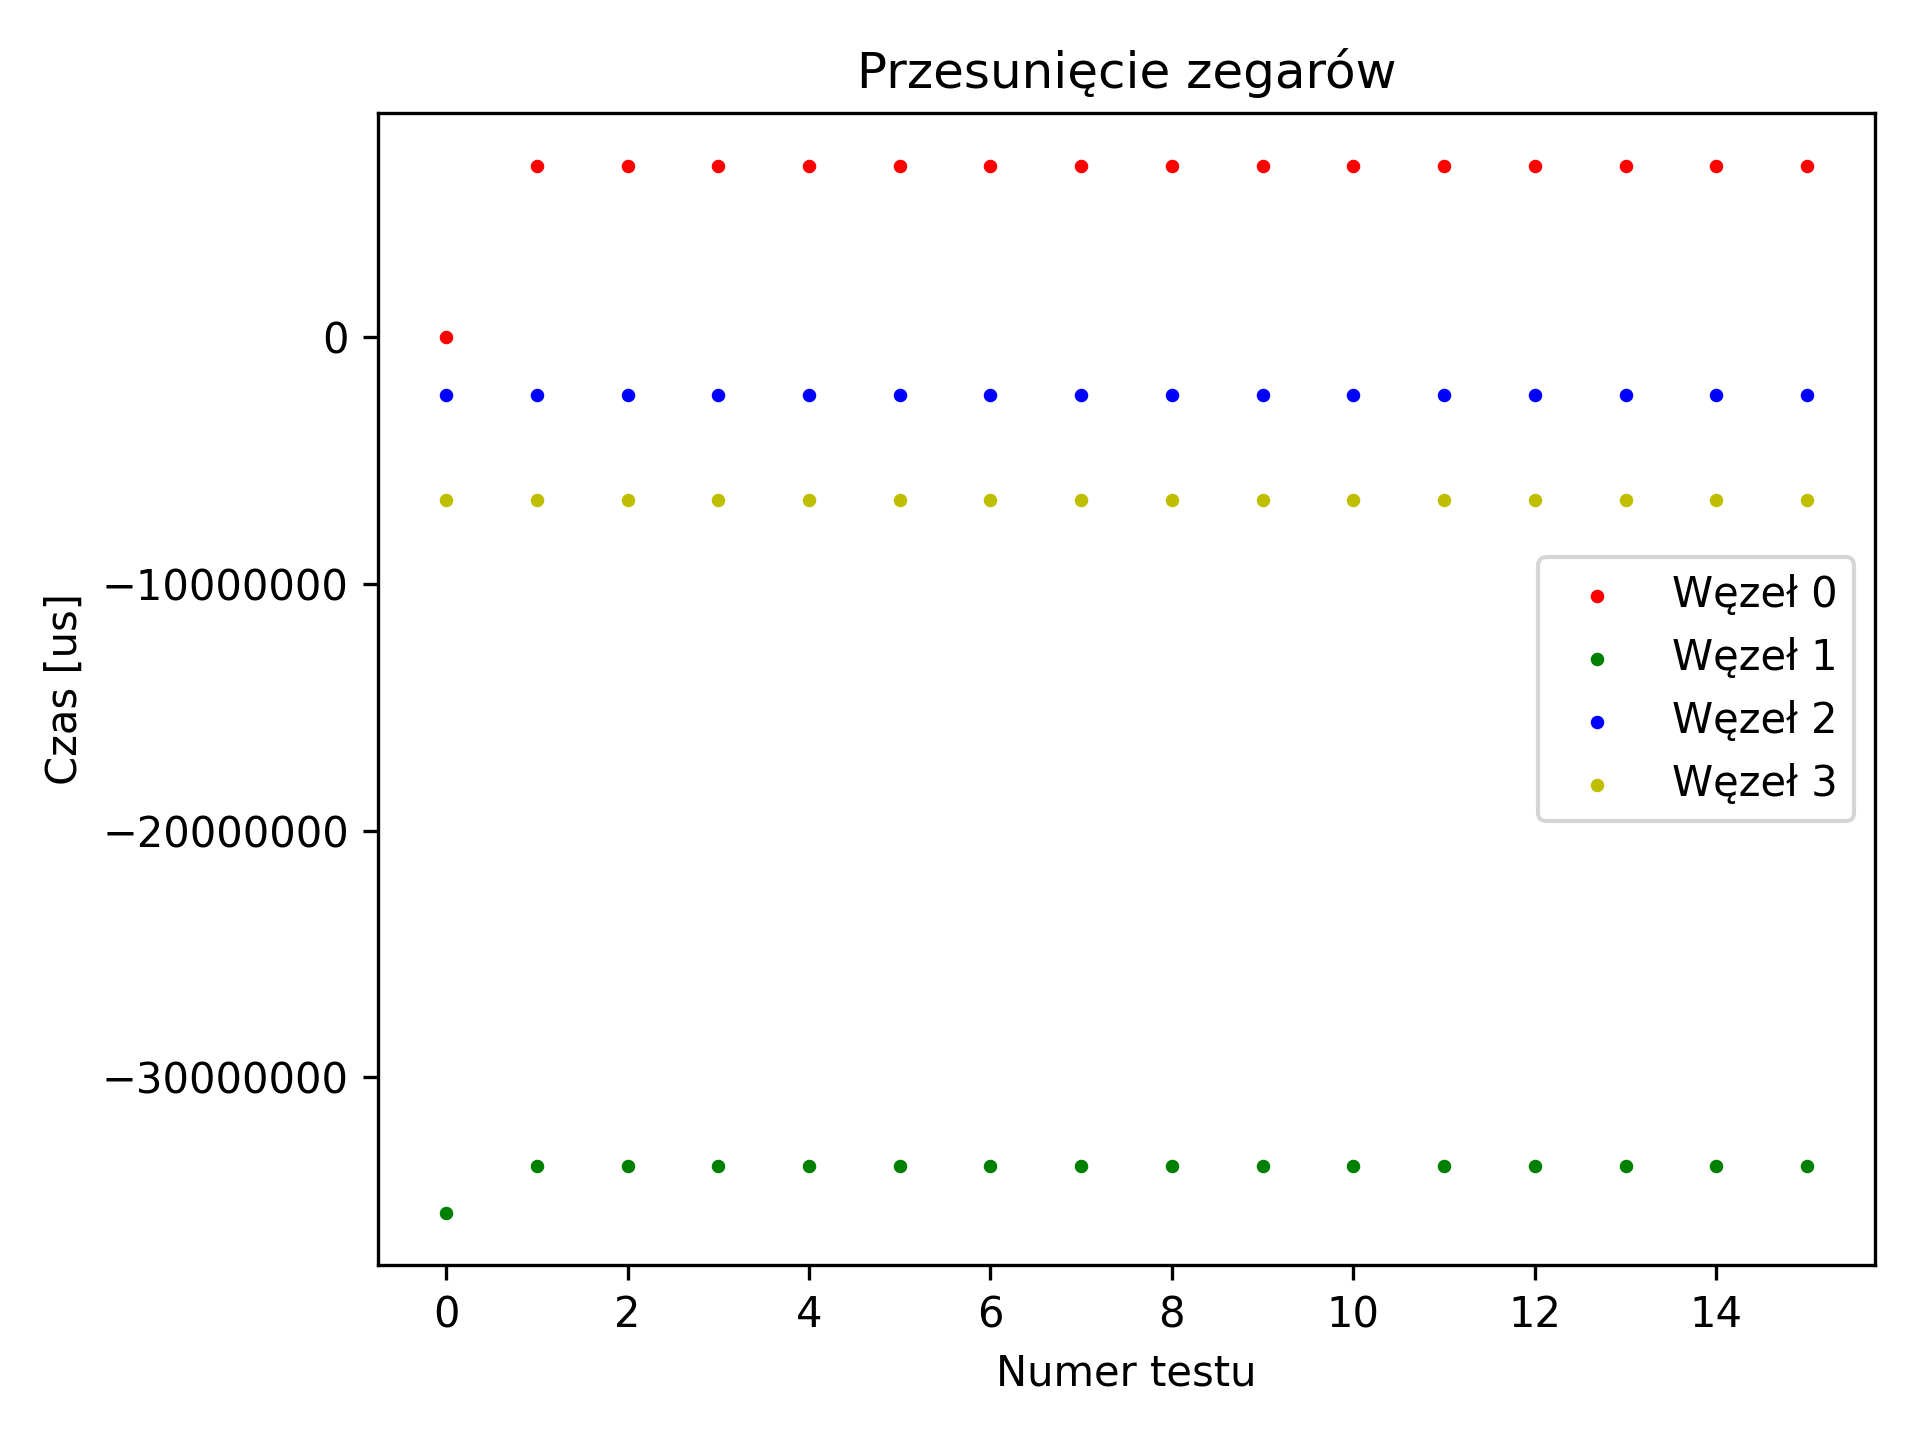
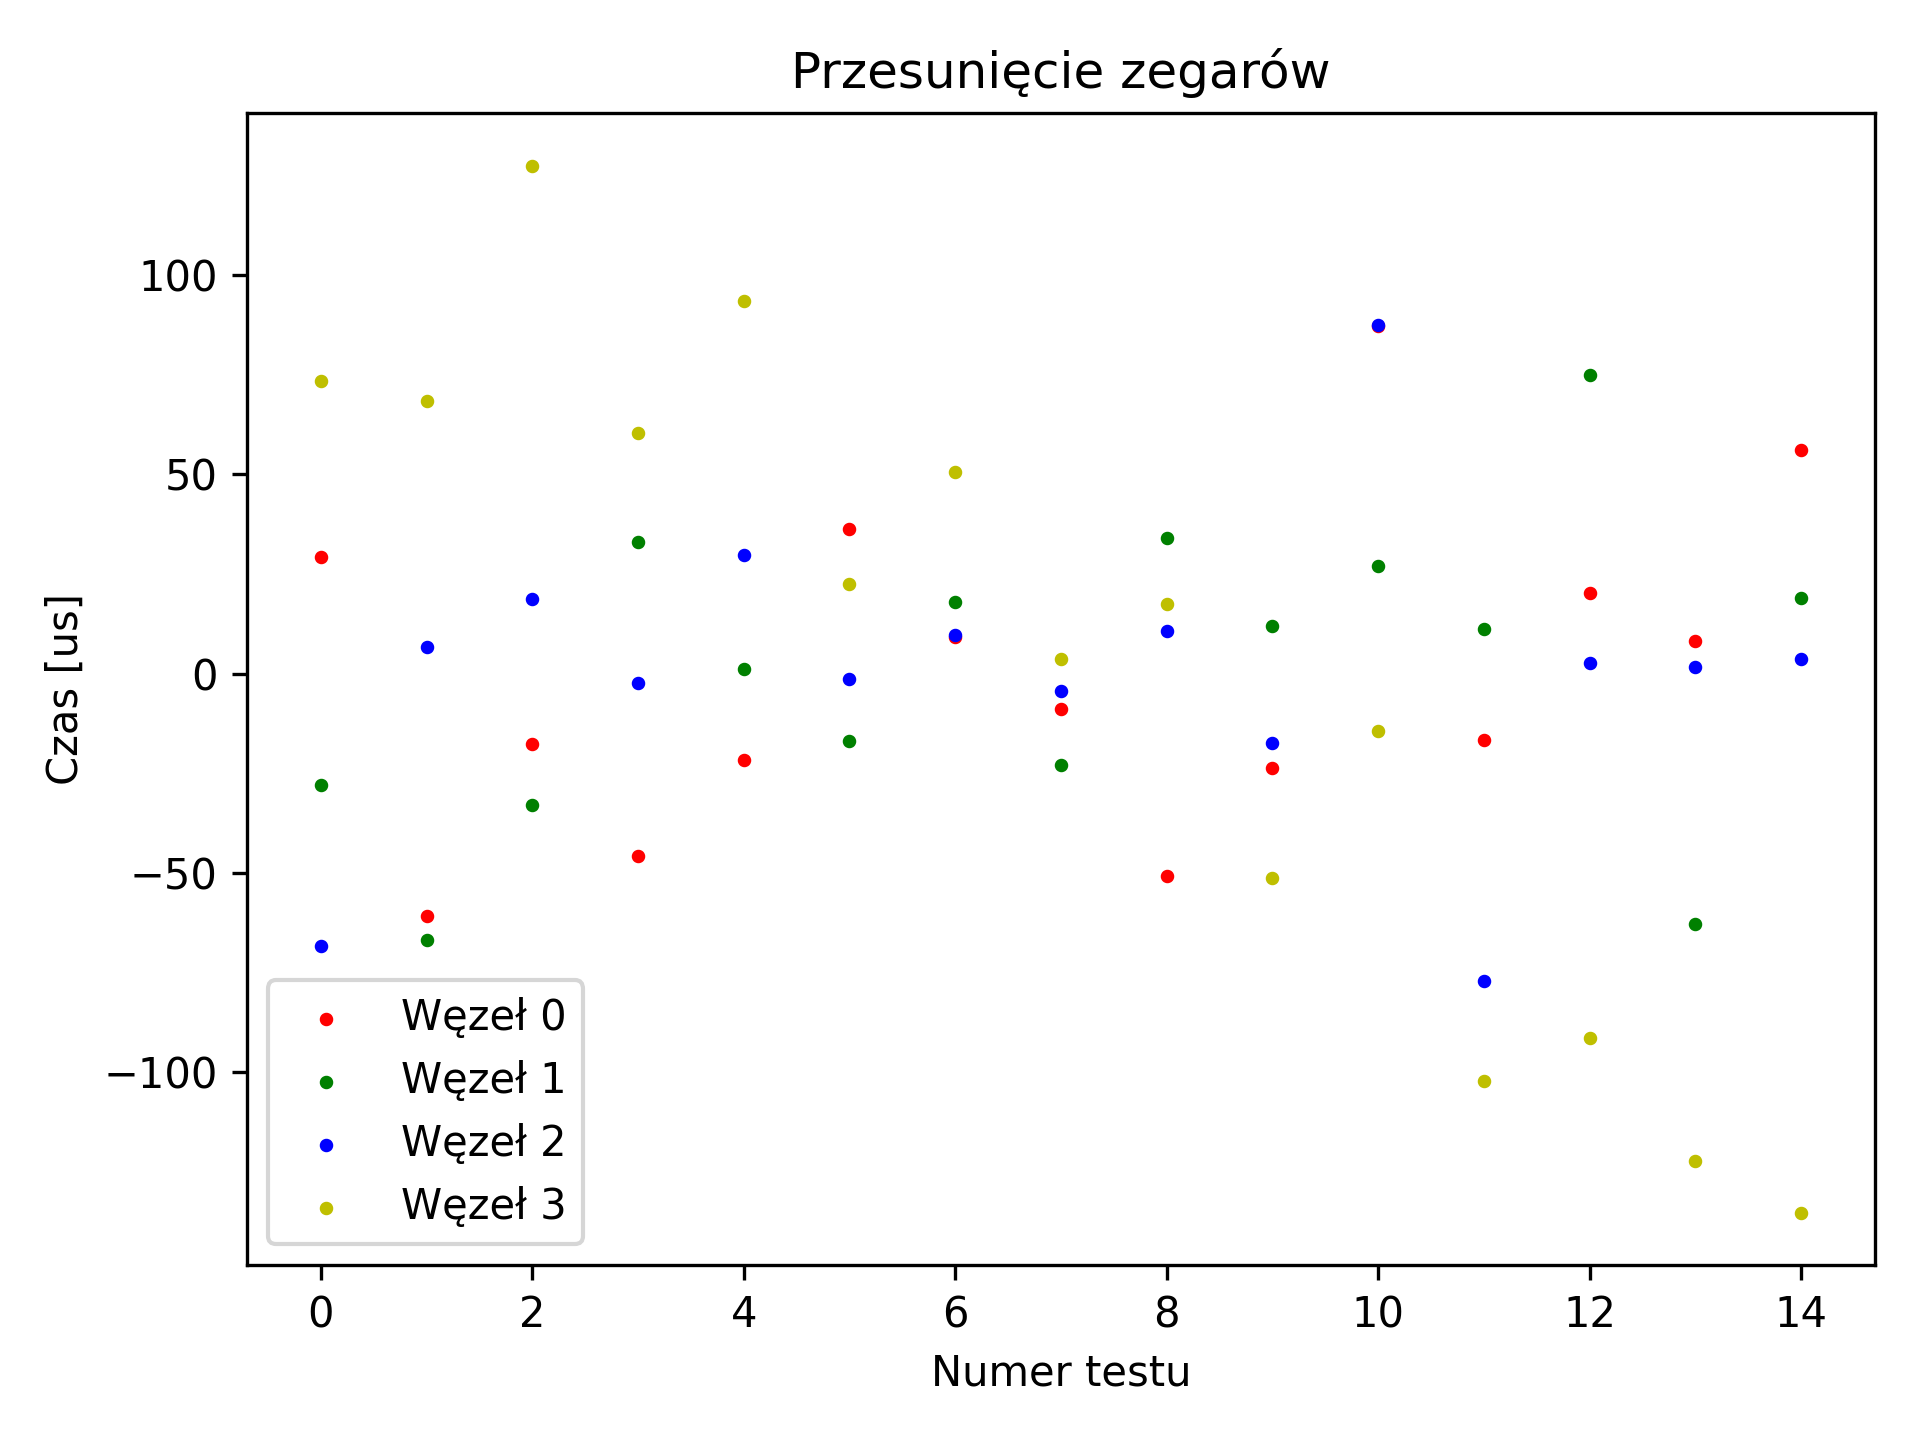
Mic_sync charts regenerated

diff --git a/src/python/data/mic_sync/mic_sync.py b/src/python/data/mic_sync/mic_sync.py
@@ -21,6 +21,7 @@ def plot_offsets(df, name, ylim):
     plt.legend()
     plt.tight_layout()
     plt.savefig(f'../../charts/mic_sync/{name}.png', dpi=300)
+    plt.close()
 
 def plot_stddevs(df):
     stddevs = {x: df.std()[x] for x in labels}
@@ -35,10 +36,12 @@ def plot_stddevs(df):
 
 if __name__ == "__main__":
     df = pd.read_csv('mic_sync.csv')
+    df = df.drop([0])
+    df.reset_index(drop=True, inplace=True)
     df = df.assign(row_number=range(len(df)))
 
-    df[labels] -= df['0'][0]
+    df[labels] -= df[labels].mean()
 
     plot_offsets(df, 'offsets', None)
-    # plot_offsets(df_offsets, 'offsets_close', (-30000,-10000), True)
+    plot_offsets(df, 'offsets_close', (-200, 200))
     plot_stddevs(df)
